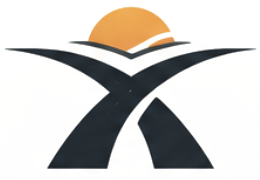
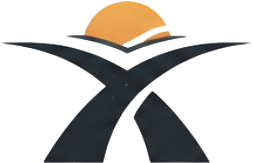
style(web): minimal theme from the brand palette, mark instead of name
Replaces the navy and amber scheme with deep green ink, tan accents and
cream paper from the brand sheet, in light and dark modes. Surfaces are
flat: hairline borders instead of shadows and rings, solid colours instead
of gradients. The sidebar, auth panel, support header and spinner show the
logo mark (cream on dark). The product name is removed from visible copy,
and the page title is the tagline.

diff --git a/apps/web/src/styles/globals.css b/apps/web/src/styles/globals.css
@@ -6,55 +6,55 @@
 @custom-variant dark (&:is(.dark *));
 
 :root {
-  --radius: 0.875rem;
-  /* Crossroads palette: navy ink, sunrise amber, warm paper (from the logo) */
-  --background: #FBF8F4;
-  --foreground: #1B2631;
-  --card: #FFFFFF;
-  --card-foreground: #1B2631;
-  --popover: #FFFFFF;
-  --popover-foreground: #1B2631;
-  --primary: #1E2D3D;
-  --primary-foreground: #FBF8F4;
-  --primary-soft: #E6EBF1;
-  --secondary: #F3EFE8;
-  --secondary-foreground: #1E2D3D;
-  --muted: #F3EFE8;
-  --muted-foreground: #6B6A66;
-  --accent: #FBEBD0;             /* shadcn "accent" = subtle hover bg; amber tint */
-  --accent-foreground: #7A4E12;
-  --warm: #E8A33C;               /* sunrise amber for points, badges and highlights */
-  --success: #2F7D5B;
-  --warning: #C2652A;
-  --destructive: #B4343F;
-  --border: #E6E0D6;
-  --input: #E6E0D6;
-  --ring: #E8A33C;
+  --radius: 0.75rem;
+  /* Brand palette: deep green ink, tan accents, cream paper */
+  --background: #F4F1EA;
+  --foreground: #13201A;
+  --card: #FBFAF6;
+  --card-foreground: #13201A;
+  --popover: #FBFAF6;
+  --popover-foreground: #13201A;
+  --primary: #1F3028;
+  --primary-foreground: #F4F1EA;
+  --primary-soft: #E7E9DF;
+  --secondary: #ECE8DC;
+  --secondary-foreground: #1F3028;
+  --muted: #ECE8DC;
+  --muted-foreground: #6A6F63;
+  --accent: #E3D4A8;
+  --accent-foreground: #4A3A14;
+  --warm: #C4A56A;
+  --success: #3E7558;
+  --warning: #B7682B;
+  --destructive: #A8373F;
+  --border: #E2DCCB;
+  --input: #E2DCCB;
+  --ring: #C4A56A;
 }
 
 .dark {
-  --background: #11161D;
-  --foreground: #F2EEE7;
-  --card: #19202A;
-  --card-foreground: #F2EEE7;
-  --popover: #19202A;
-  --popover-foreground: #F2EEE7;
-  --primary: #A9BED3;
-  --primary-foreground: #11161D;
-  --primary-soft: #1E2A38;
-  --secondary: #1E2733;
-  --secondary-foreground: #F2EEE7;
-  --muted: #1E2733;
-  --muted-foreground: #A7A9AE;
-  --accent: #2B2112;
-  --accent-foreground: #F5C978;
-  --warm: #F2B454;
-  --success: #4CC28F;
-  --warning: #E8864F;
-  --destructive: #F0737B;
-  --border: #2A3442;
-  --input: #2A3442;
-  --ring: #E8A33C;
+  --background: #101712;
+  --foreground: #F4F1EA;
+  --card: #17201A;
+  --card-foreground: #F4F1EA;
+  --popover: #17201A;
+  --popover-foreground: #F4F1EA;
+  --primary: #E3D4A8;
+  --primary-foreground: #101712;
+  --primary-soft: #22302A;
+  --secondary: #1B2620;
+  --secondary-foreground: #F4F1EA;
+  --muted: #1B2620;
+  --muted-foreground: #A3A894;
+  --accent: #2A2A1E;
+  --accent-foreground: #E3D4A8;
+  --warm: #C4A56A;
+  --success: #6FB392;
+  --warning: #D9915A;
+  --destructive: #E07A80;
+  --border: #26342C;
+  --input: #26342C;
+  --ring: #C4A56A;
 }
 
 @theme inline {

diff --git a/apps/web/src/features/support/SupportPage.tsx b/apps/web/src/features/support/SupportPage.tsx
@@ -9,8 +9,9 @@ export function SupportPage() {
     <div className="min-h-screen bg-background">
       <header className="border-b bg-card/50 px-6 py-4 backdrop-blur">
         <div className="mx-auto flex max-w-4xl items-center justify-between">
-          <Link to="/" className="text-xl font-bold tracking-tight text-primary">
-            Crossroads
+          <Link to="/" aria-label="Home" className="flex items-center">
+            <img src="/brand/crossroads-mark.png" alt="" className="block h-7 w-auto dark:hidden" />
+            <img src="/brand/crossroads-mark-dark.png" alt="" className="hidden h-7 w-auto dark:block" />
           </Link>
           <Button variant="ghost" asChild>
             <Link to="/home">Go to App</Link>
@@ -51,10 +52,10 @@ export function SupportPage() {
           {/* What Crossroads is */}
           <Card className="p-6">
             <h3 className="flex items-center gap-2 text-lg font-semibold">
-              <Info className="h-5 w-5 text-primary" /> What Crossroads is (and isn't)
+              <Info className="h-5 w-5 text-primary" /> What this is (and isn't)
             </h3>
             <p className="mt-3 text-sm text-muted-foreground">
-              Crossroads provides peer guidance from seniors and alumni. It is <strong>not</strong> a substitute for professional counselling, medical, or legal advice.
+              This space provides peer guidance from seniors and alumni. It is <strong>not</strong> a substitute for professional counselling, medical, or legal advice.
             </p>
             <ul className="mt-4 space-y-2 text-sm text-muted-foreground">
               <li className="flex items-center gap-2">
@@ -74,7 +75,7 @@ export function SupportPage() {
             <div className="mt-4 grid gap-4 text-sm text-muted-foreground sm:grid-cols-2">
               <div>
                 <strong className="text-foreground">Be kind and constructive.</strong>
-                <p>No ragging, bullying, or harassment will be tolerated. Crossroads is a safe space.</p>
+                <p>No ragging, bullying, or harassment will be tolerated. This is a safe space.</p>
               </div>
               <div>
                 <strong className="text-foreground">Respect confidentiality.</strong>

diff --git a/apps/web/src/components/ui/input.tsx b/apps/web/src/components/ui/input.tsx
@@ -7,7 +7,7 @@ function Input({ className, type, ...props }: React.ComponentProps<"input">) {
       type={type}
       data-slot="input"
       className={cn(
-        "h-9 w-full min-w-0 rounded-md border border-input bg-transparent px-2.5 py-1 text-base shadow-xs transition-[color,box-shadow] outline-none file:inline-flex file:h-7 file:border-0 file:bg-transparent file:text-sm file:font-medium file:text-foreground placeholder:text-muted-foreground focus-visible:border-ring focus-visible:ring-3 focus-visible:ring-ring/50 disabled:pointer-events-none disabled:cursor-not-allowed disabled:opacity-50 aria-invalid:border-destructive aria-invalid:ring-3 aria-invalid:ring-destructive/20 md:text-sm dark:bg-input/30 dark:aria-invalid:border-destructive/50 dark:aria-invalid:ring-destructive/40",
+        "h-9 w-full min-w-0 rounded-md border border-input bg-transparent px-2.5 py-1 text-base transition-[color,box-shadow] outline-none file:inline-flex file:h-7 file:border-0 file:bg-transparent file:text-sm file:font-medium file:text-foreground placeholder:text-muted-foreground focus-visible:border-ring focus-visible:ring-3 focus-visible:ring-ring/50 disabled:pointer-events-none disabled:cursor-not-allowed disabled:opacity-50 aria-invalid:border-destructive aria-invalid:ring-3 aria-invalid:ring-destructive/20 md:text-sm dark:bg-input/30 dark:aria-invalid:border-destructive/50 dark:aria-invalid:ring-destructive/40",
         className
       )}
       {...props}

diff --git a/apps/web/src/features/auth/AuthLayout.tsx b/apps/web/src/features/auth/AuthLayout.tsx
@@ -17,14 +17,14 @@ export function AuthLayout({
 }) {
   return (
     <div className="grid min-h-dvh lg:grid-cols-2">
-      <div className="relative hidden flex-col justify-between overflow-hidden bg-gradient-to-br from-slate-600 via-slate-700 to-amber-800 p-10 text-white lg:flex">
-        <Logo to="/" className="[&_span]:text-white" />
+      <div className="relative hidden flex-col justify-between overflow-hidden bg-primary p-10 text-primary-foreground lg:flex">
+        <Logo to="/" onDark />
         <div className="space-y-8">
-          <figure className="rounded-2xl bg-white/10 p-6 backdrop-blur">
+          <figure className="rounded-2xl border border-white/10 p-6">
             <blockquote className="font-display text-xl font-semibold leading-snug">
               &ldquo;I wish I had this in my first year.&rdquo;
             </blockquote>
-            <figcaption className="mt-3 text-sm text-white/70">Example quote, not a real testimonial</figcaption>
+            <figcaption className="mt-3 text-sm opacity-70">Example quote, not a real testimonial</figcaption>
           </figure>
           <ul className="space-y-3">
             {BENEFITS.map((b) => (

diff --git a/apps/web/src/components/layout/Logo.tsx b/apps/web/src/components/layout/Logo.tsx
@@ -1,11 +1,18 @@
 import { Link } from 'react-router';
 import { cn } from '@/lib/utils';
 
-export function Logo({ className, to = '/home' }: { className?: string; to?: string }) {
+/** The brand mark only. `onDark` forces the cream version for dark panels, regardless of theme. */
+export function Logo({ className, to = '/home', onDark = false }: { className?: string; to?: string; onDark?: boolean }) {
   return (
-    <Link to={to} className={cn('flex items-center gap-2.5', className)}>
-      <img src="/brand/crossroads-mark.png" alt="" className="h-7 w-auto" />
-      <span className="font-display text-lg font-bold tracking-[0.12em] uppercase">Crossroads</span>
+    <Link to={to} aria-label="Home" className={cn('flex items-center', className)}>
+      {onDark ? (
+        <img src="/brand/crossroads-mark-dark.png" alt="" className="h-8 w-auto" />
+      ) : (
+        <>
+          <img src="/brand/crossroads-mark.png" alt="" className="block h-7 w-auto dark:hidden" />
+          <img src="/brand/crossroads-mark-dark.png" alt="" className="hidden h-7 w-auto dark:block" />
+        </>
+      )}
     </Link>
   );
 }

diff --git a/apps/web/src/features/landing/LandingPage.tsx b/apps/web/src/features/landing/LandingPage.tsx
@@ -151,7 +151,7 @@ export function LandingPage() {
               No rankings. No pressure. Just people who want you to do well.
             </h2>
             <p className="mt-1 text-sm text-muted-foreground">
-              Placement season is stressful. Crossroads is built to make it kinder, and help is always one tap away.
+              Placement season is stressful. Help from people who have been through it is always one tap away.
             </p>
           </div>
           <Button variant="outline" asChild>
@@ -161,7 +161,7 @@ export function LandingPage() {
       </section>
 
       <footer className="mx-auto flex max-w-6xl flex-wrap items-center gap-4 border-t px-4 py-8 text-sm text-muted-foreground md:px-8">
-        <span>© {new Date().getFullYear()} Crossroads</span>
+        <span>© {new Date().getFullYear()}</span>
         <Link to="/support" className="hover:text-foreground">Support</Link>
         <Link to="/stories" className="hover:text-foreground">Stories</Link>
       </footer>

diff --git a/apps/web/src/features/profile/ProfilePage.tsx b/apps/web/src/features/profile/ProfilePage.tsx
@@ -86,7 +86,7 @@ export function ProfilePage() {
       <EmptyState
         icon={UserX}
         title="Profile not found"
-        description="This person may not have finished joining Crossroads yet."
+        description="This person has not finished joining yet."
         action={
           <Button asChild>
             <Link to="/people">Discover people</Link>
@@ -106,7 +106,7 @@ export function ProfilePage() {
   return (
     <div className="space-y-6">
       <div className="overflow-hidden rounded-2xl border bg-card">
-        <div className="h-28 bg-gradient-to-r from-slate-500 to-amber-600" />
+        <div className="h-28 bg-primary" />
         <div className="px-5 pb-5">
           <div className="-mt-10 flex flex-wrap items-end justify-between gap-4">
             <div className="rounded-full ring-4 ring-card">

diff --git a/apps/web/src/components/ui/card.tsx b/apps/web/src/components/ui/card.tsx
@@ -11,7 +11,7 @@ function Card({
       data-slot="card"
       data-size={size}
       className={cn(
-        "group/card flex flex-col gap-(--card-spacing) overflow-hidden rounded-xl bg-card py-(--card-spacing) text-sm text-card-foreground shadow-xs ring-1 ring-foreground/10 [--card-spacing:--spacing(6)] has-[>img:first-child]:pt-0 data-[size=sm]:[--card-spacing:--spacing(4)] *:[img:first-child]:rounded-t-xl *:[img:last-child]:rounded-b-xl",
+        "group/card flex flex-col gap-(--card-spacing) overflow-hidden rounded-xl border bg-card py-(--card-spacing) text-sm text-card-foreground [--card-spacing:--spacing(6)] has-[>img:first-child]:pt-0 data-[size=sm]:[--card-spacing:--spacing(4)] *:[img:first-child]:rounded-t-xl *:[img:last-child]:rounded-b-xl",
         className
       )}
       {...props}

diff --git a/apps/web/src/components/ui/button.tsx b/apps/web/src/components/ui/button.tsx
@@ -10,7 +10,7 @@ const buttonVariants = cva(
       variant: {
         default: "bg-primary text-primary-foreground hover:bg-primary/80",
         outline:
-          "border-border bg-background shadow-xs hover:bg-muted hover:text-foreground aria-expanded:bg-muted aria-expanded:text-foreground dark:border-input dark:bg-input/30 dark:hover:bg-input/50",
+          "border-border bg-background hover:bg-muted hover:text-foreground aria-expanded:bg-muted aria-expanded:text-foreground dark:border-input dark:bg-input/30 dark:hover:bg-input/50",
         secondary:
           "bg-secondary text-secondary-foreground hover:bg-[color-mix(in_oklch,var(--secondary),var(--foreground)_5%)] aria-expanded:bg-secondary aria-expanded:text-secondary-foreground",
         ghost:

diff --git a/apps/web/src/components/layout/CommandPalette.tsx b/apps/web/src/components/layout/CommandPalette.tsx
@@ -46,7 +46,7 @@ export function CommandPalette() {
   const groups = data ? GROUPS.filter((g) => data[g.key].length > 0) : [];
 
   return (
-    <CommandDialog open={open} onOpenChange={setOpen} title="Search Crossroads" description="Search questions, people, companies and more">
+    <CommandDialog open={open} onOpenChange={setOpen} title="Search" description="Search questions, people, companies and more">
       {/* Results come from the server, so cmdk must not re-filter them */}
       <Command shouldFilter={false}>
         <CommandInput value={q} onValueChange={setQ} placeholder="Search questions, people, companies…" />

diff --git a/apps/web/src/components/shared/VerifiedBadge.tsx b/apps/web/src/components/shared/VerifiedBadge.tsx
@@ -5,11 +5,11 @@ export function VerifiedBadge() {
   return (
     <Tooltip>
       <TooltipTrigger asChild>
-        <span className="inline-flex text-success" aria-label="Verified by Crossroads admins">
+        <span className="inline-flex text-success" aria-label="Verified by admins">
           <BadgeCheck className="size-3.5" />
         </span>
       </TooltipTrigger>
-      <TooltipContent>Verified by Crossroads admins</TooltipContent>
+      <TooltipContent>Verified by admins</TooltipContent>
     </Tooltip>
   );
 }

diff --git a/apps/web/src/features/people/PersonCard.tsx b/apps/web/src/features/people/PersonCard.tsx
@@ -20,7 +20,7 @@ export function PersonCard({ person, featured = false }: { person: Person; featu
     <article
       onClick={() => navigate(`/u/${person.handle}`)}
       className={`flex h-full cursor-pointer flex-col gap-3 rounded-2xl border p-4 transition hover:-translate-y-0.5 hover:shadow-md ${
-        featured ? 'bg-gradient-to-br from-primary-soft to-card' : 'bg-card'
+        featured ? 'bg-primary-soft' : 'bg-card'
       }`}
     >
       <div className="flex items-start gap-3">
